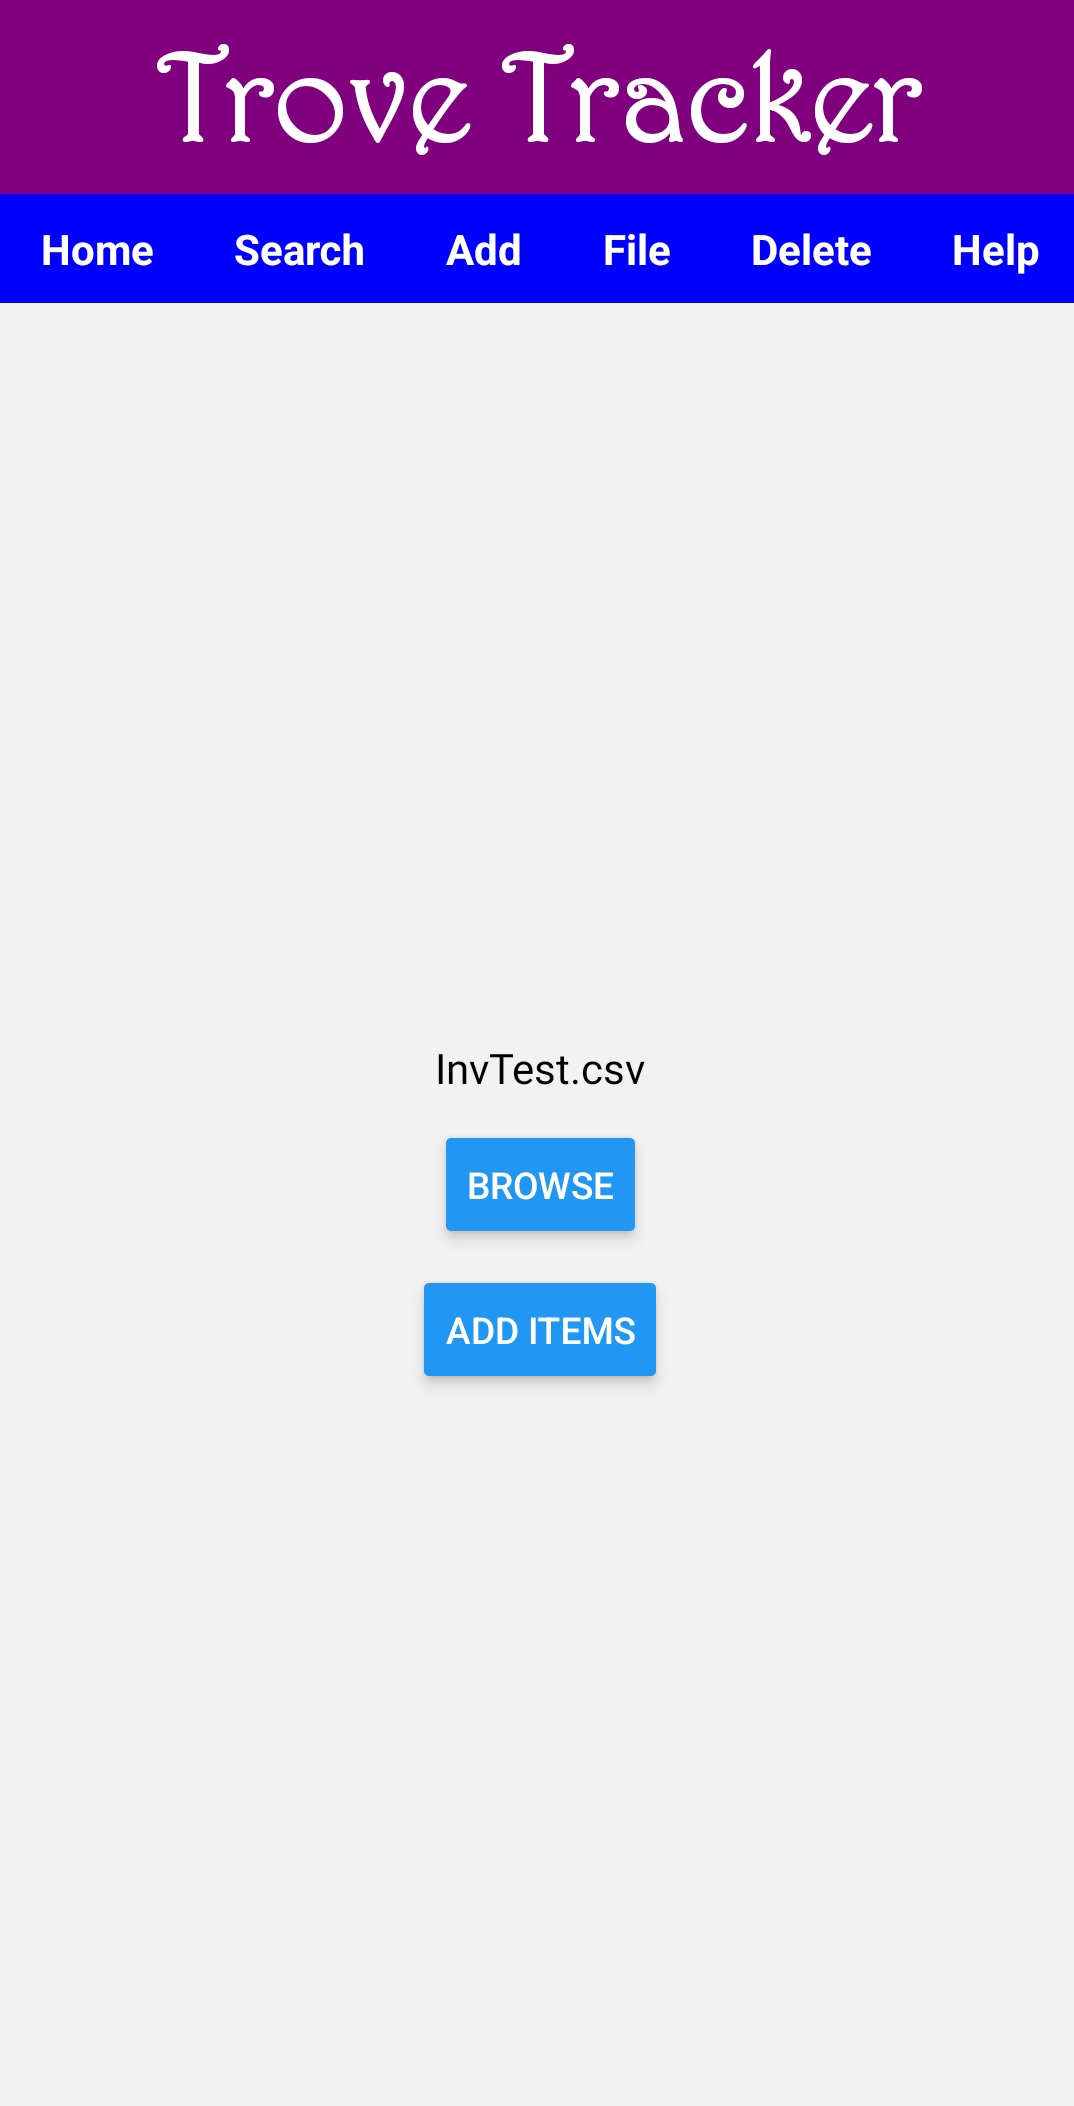
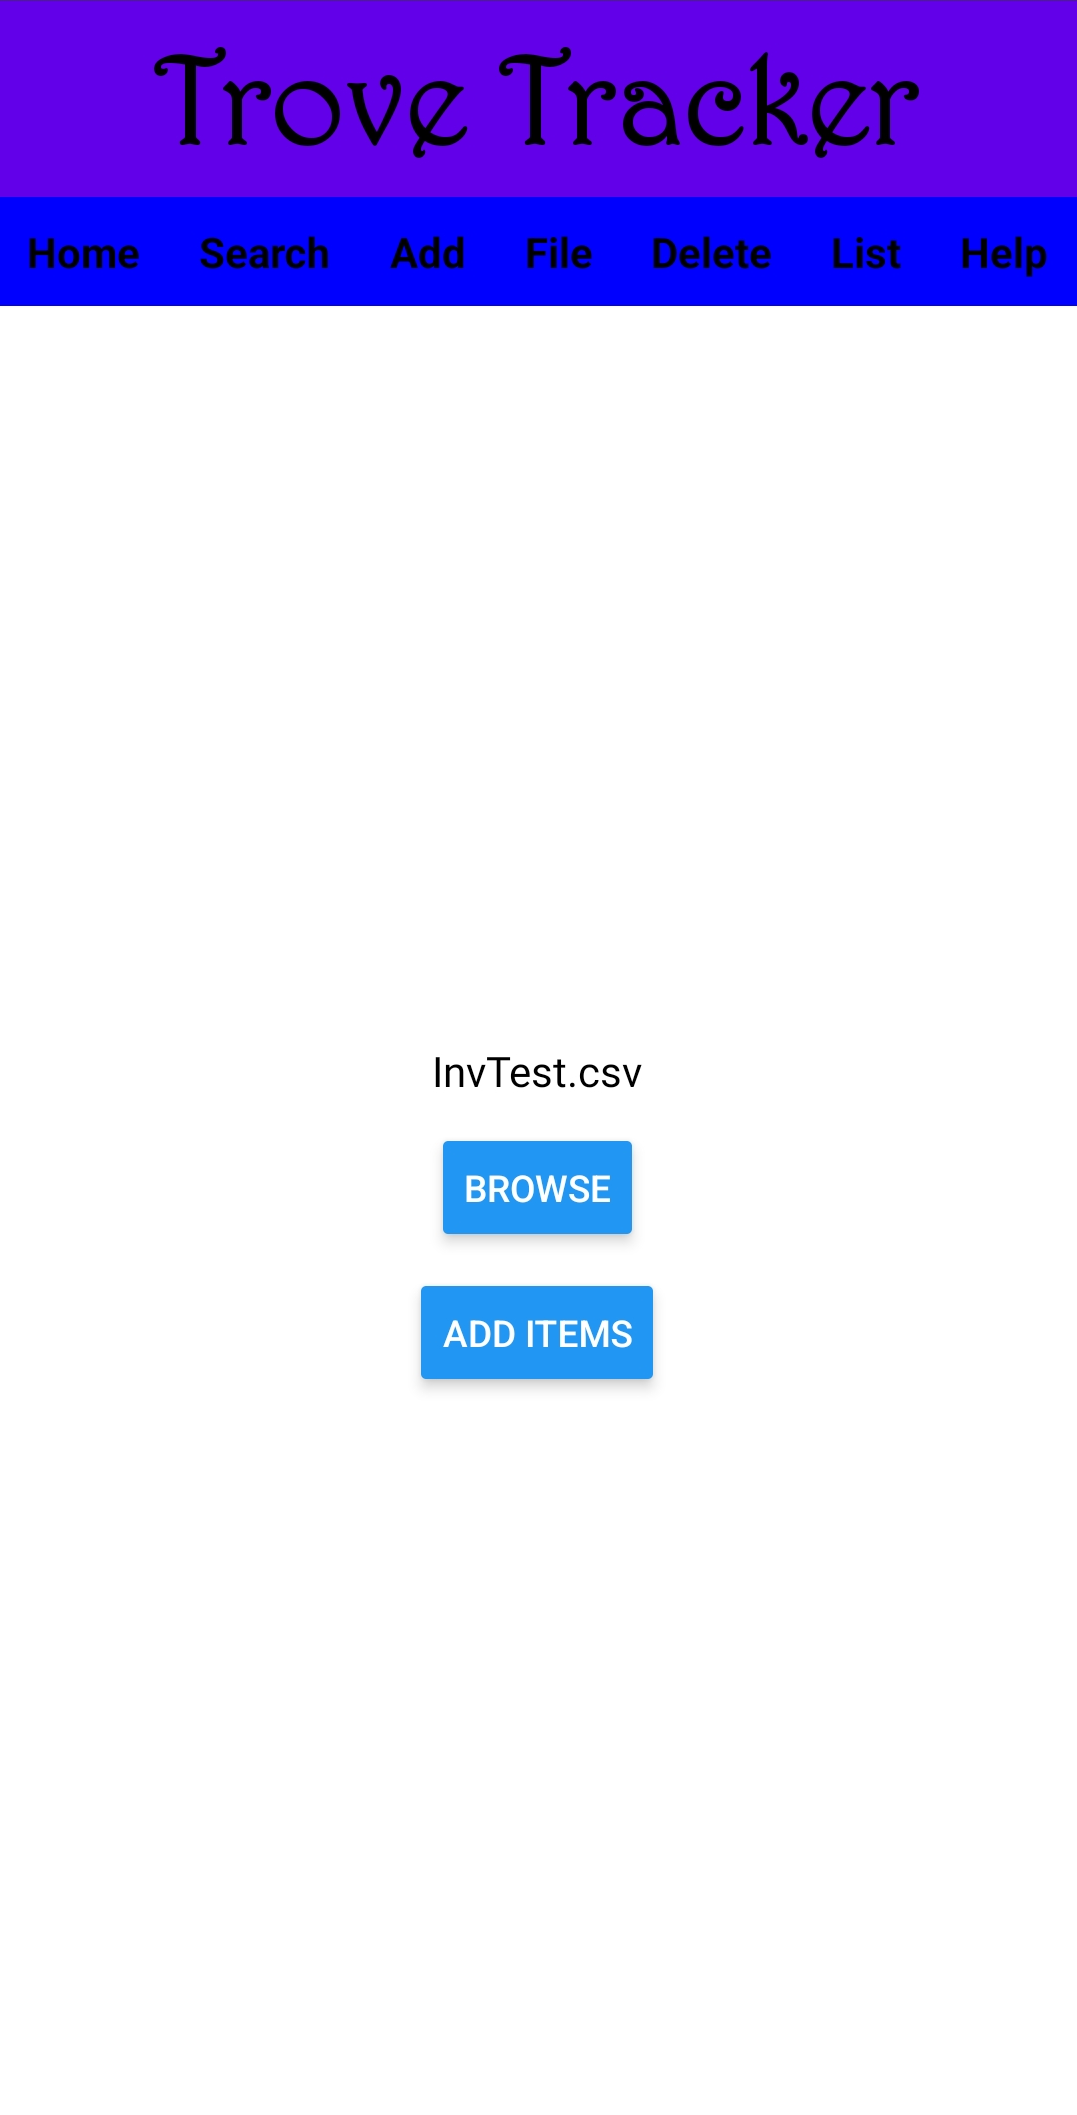
Updated Help

Changed region(s): [[0.0, 0.0, 1.0, 0.1543], [0.3994, 0.4938, 0.6145, 0.5864], [0.3687, 0.6173, 0.6145, 0.679]]

diff --git a/TroveTracker/Help.js b/TroveTracker/Help.js
@@ -70,6 +70,15 @@ const Help = () => {
         To remove items from the database, enter the keyword(s) related to the item name or description. You can also enter a type to refine your search. Click the Search button to display the matching items. Check the boxes next to the items you wish to delete, then click the Delete button. You can enter new keyword(s) and perform another search at any time for different results.
       </Text>
 
+      <Text style={styles.header}>List</Text>
+      <View style={styles.imageContainer}>
+        <Image source={require('./imgs/listimg.png')} style={styles.image} />
+      </View>
+      <Text style={styles.helpText}>
+        The List view displays all entries in the selected table in alphabetical order, allowing you to easily browse the entire list.
+      </Text>
+      <View style={styles.separator}></View>
+
       <Text style={styles.header}>Creating A CSV</Text>
       <View style={styles.imageContainer}>
         <Image source={require('./imgs/csvimg1.png')} style={styles.image} />
